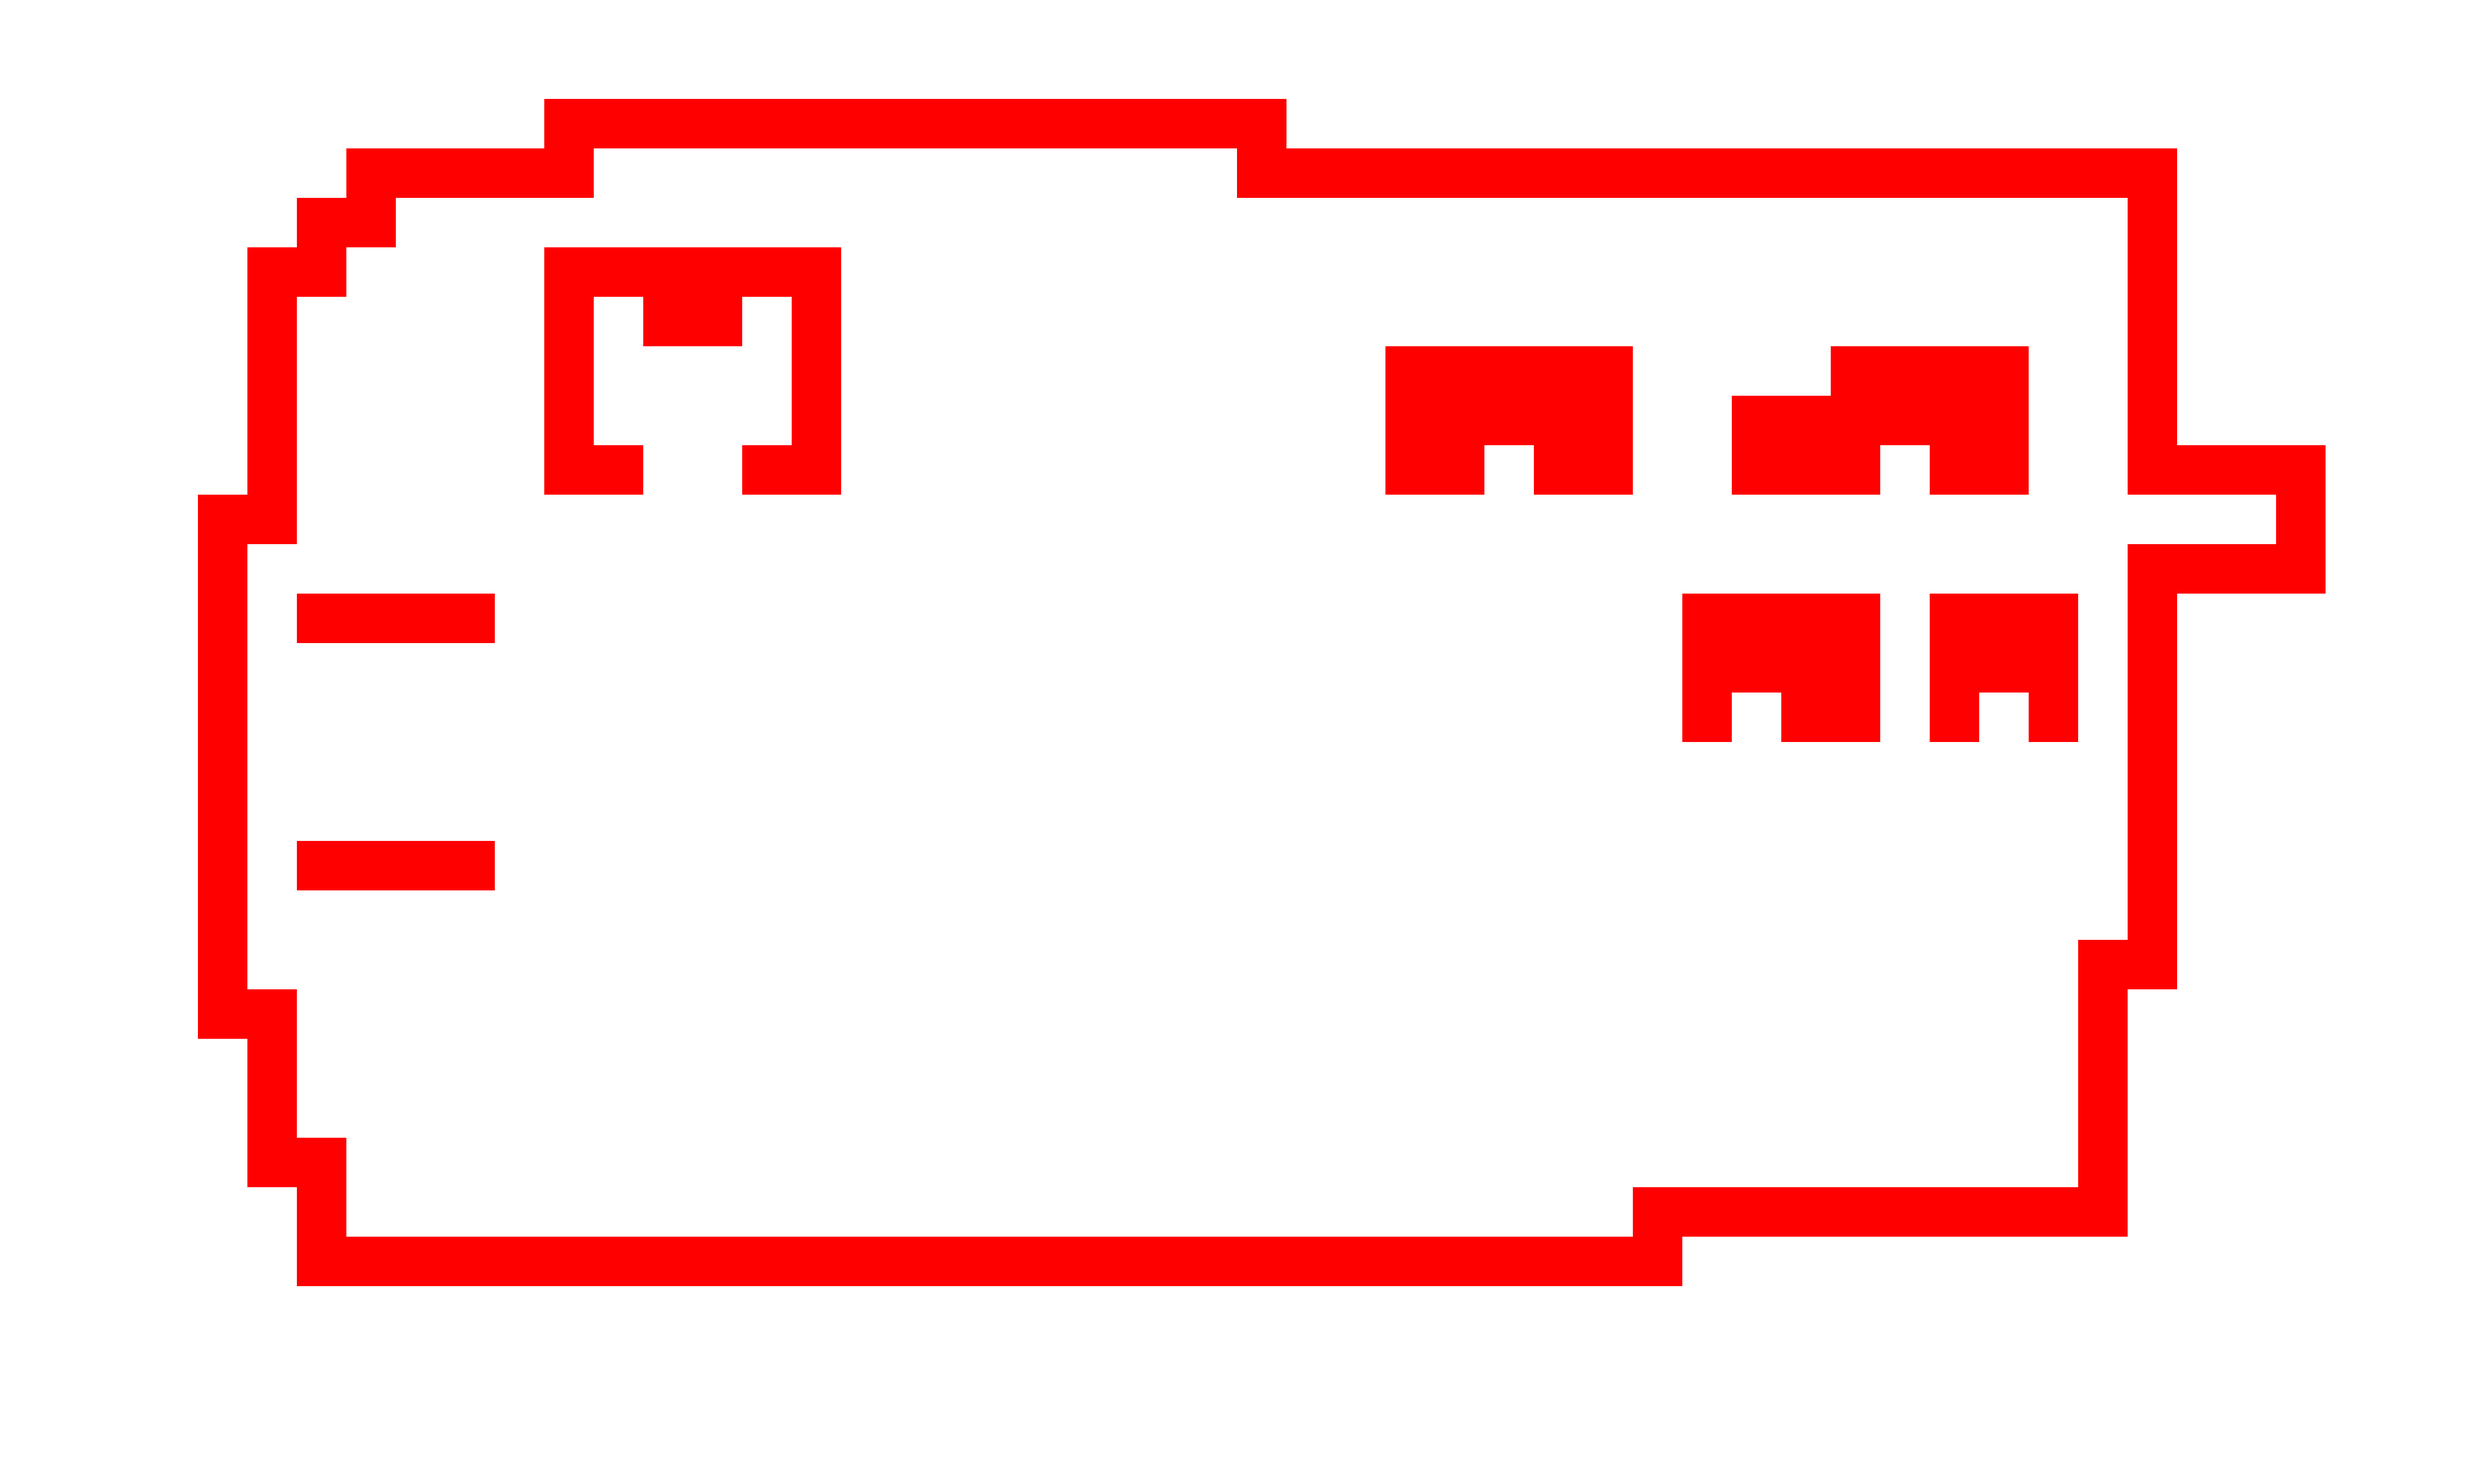
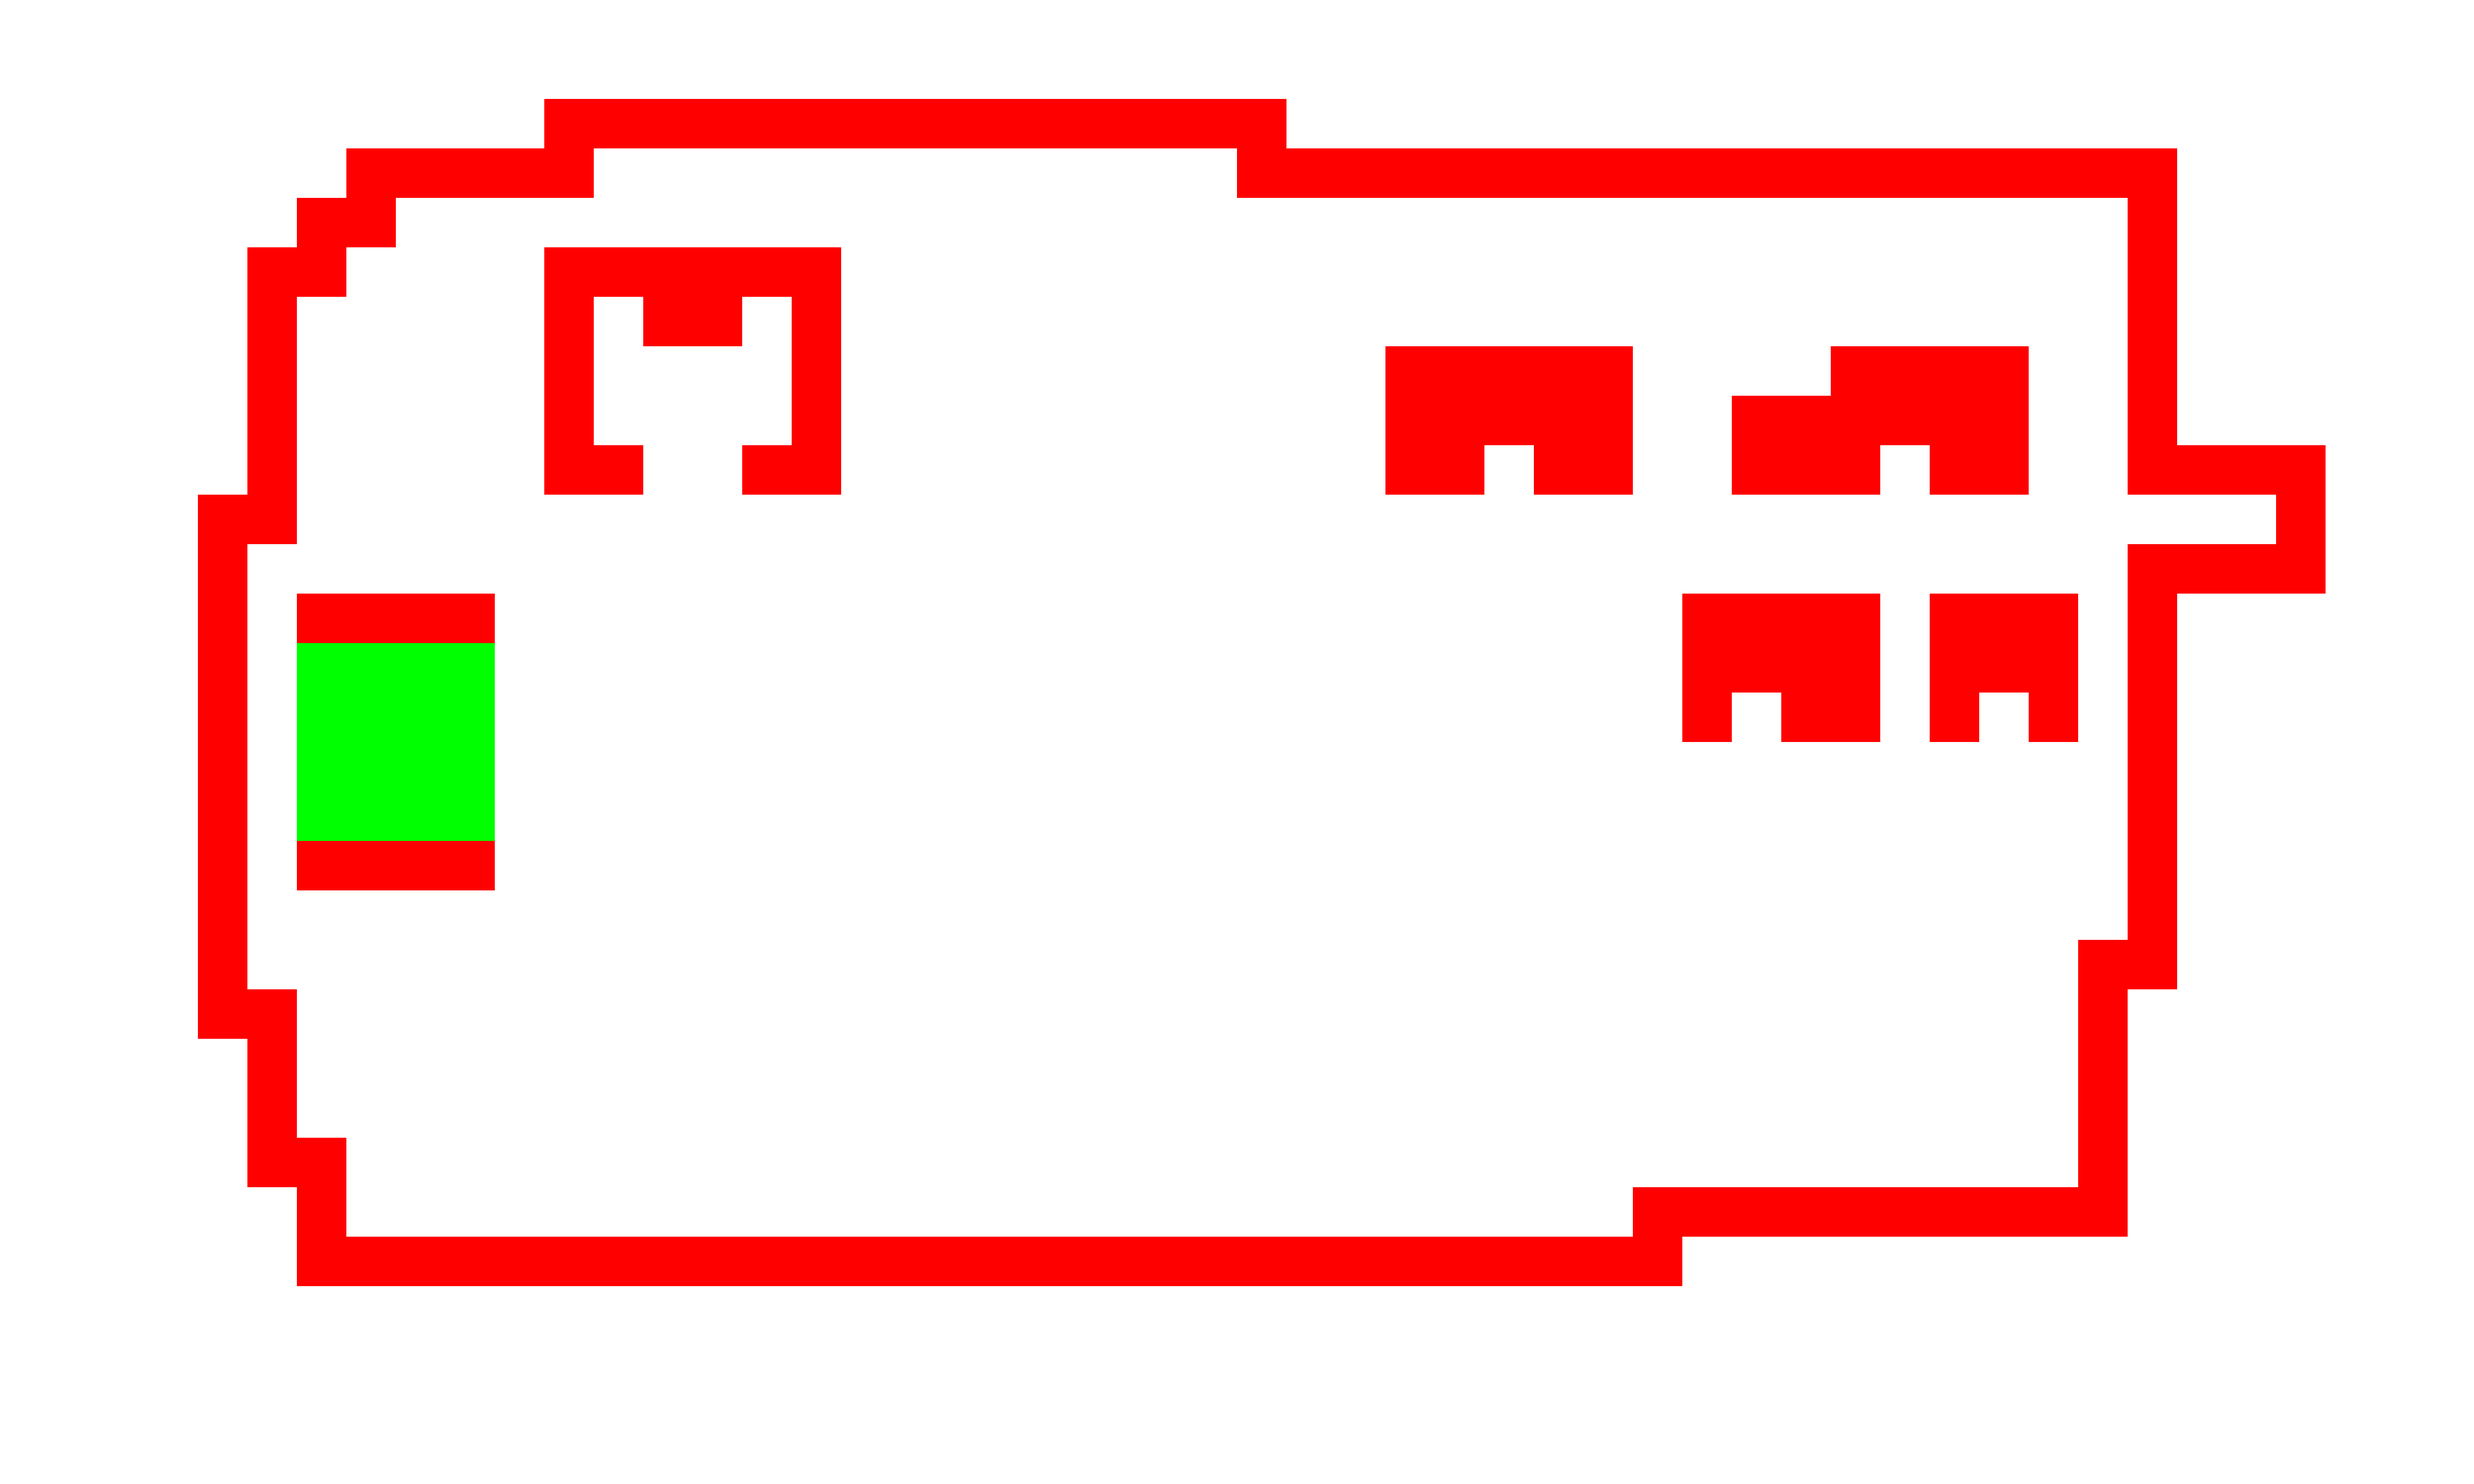
Add inventory section to index.html

Changed region(s): [[0.0938, 0.4062, 0.2188, 0.5938]]

diff --git a/index.js b/index.js
@@ -1,31 +1,37 @@
 import { MapConstructor, PlayerConstructor } from "./module/Asset.js";
+import { fillInventory, displayInventory } from "./module/Inventory.js";
 
 //Alle Karten Elemente Laden
 const canvas = document.querySelector("canvas");
 canvas.width = 1200;
 canvas.height = 800;
-const c = canvas.getContext("2d");
+const c = canvas.getContext("2d", { willReadFrequently: true });
+
+const SpawnPosition = {
+  x: -575,
+  y: -1000,
+};
 
 const MapBackground = new MapConstructor({
   position: {
-    x: -3075,
-    y: -600,
+    x: SpawnPosition.x,
+    y: SpawnPosition.y,
   },
   src: document.getElementById("Map"),
 });
 
 const MapBackground2 = new MapConstructor({
   position: {
-    x: -3075,
-    y: -600,
+    x: SpawnPosition.x,
+    y: SpawnPosition.y,
   },
   src: document.getElementById("MapTransperent"),
 });
 
 const CollisionMap = new MapConstructor({
   position: {
-    x: -3075,
-    y: -600,
+    x: SpawnPosition.x,
+    y: SpawnPosition.y,
   },
   src: document.getElementById("CollisionMap"),
 });
@@ -45,9 +51,18 @@ const Player = new PlayerConstructor({
   },
   velocity: 5,
   src: PlayerDown,
-  inventory: [],
+  inventory: fillInventory(),
 });
+
+console.log(Player.inventory);
+//function to display inventory
+displayInventory(Player);
+
 let directionStack = [];
+
+//Alle Farben für die Kollisionserkennung
+const Wand = [255, 0, 0, 255]; // ROT
+const PokemonEncounter = [0, 255, 0, 255]; // GRÜN
 
 //Collision Punkte für die Kollisionserkennung
 const LeftX = canvas.width / 2 - 14;
@@ -55,34 +70,53 @@ const UpperY = canvas.height / 2 - 52;
 const RightX = canvas.width / 2 + 52;
 const LowerY = canvas.height / 2 + 2;
 
+//Frame Counter für die Pokemon Encounter Erkennung
+let frameCount = 0;
+
 //Spiel Loop
 function animate() {
   window.requestAnimationFrame(animate);
   CollisionMap.draw();
 
+  //Pokemon Encounter Erkennung
+  PokemonEncounterFunction();
   //Kollisions Erkennung
-  let CollisionUP = Collision([
-    [LeftX + 10, UpperY],
-    [RightX - 10, UpperY],
-  ]);
-  let CollisionDown = Collision([
-    [LeftX + 10, LowerY],
-    [RightX - 10, LowerY],
-  ]);
-  let CollisionLeft = Collision([
-    [LeftX, UpperY + 10],
-    [LeftX, LowerY - 10],
-  ]);
-  let CollisionRight = Collision([
-    [RightX, UpperY + 10],
-    [RightX, LowerY - 10],
-  ]);
+
+  let CollisionUP = Collision(
+    [
+      [LeftX + 10, UpperY],
+      [RightX - 10, UpperY],
+    ],
+    Wand
+  );
+  let CollisionDown = Collision(
+    [
+      [LeftX + 10, LowerY],
+      [RightX - 10, LowerY],
+    ],
+    Wand
+  );
+  let CollisionLeft = Collision(
+    [
+      [LeftX, UpperY + 10],
+      [LeftX, LowerY - 10],
+    ],
+    Wand
+  );
+  let CollisionRight = Collision(
+    [
+      [RightX, UpperY + 10],
+      [RightX, LowerY - 10],
+    ],
+    Wand
+  );
 
   //Rest der Karte gezeichnet sowie der Spieler
   MapBackground.draw();
   Player.draw(c, canvas);
   MapBackground2.draw();
-  // CollisionMap.draw();
+  CollisionMap.draw();
+
   //Bewegung des Spielers
   let currentDirection = getCurrentDirection();
   if (currentDirection == "UP" && CollisionUP == false) {
@@ -91,6 +125,7 @@ function animate() {
     CollisionMap.position.y += Player.velocity;
     Player.src = PlayerUp;
     Player.move();
+    frameCount++;
   }
   if (currentDirection == "DOWN" && CollisionDown == false) {
     MapBackground.position.y -= Player.velocity;
@@ -98,6 +133,7 @@ function animate() {
     CollisionMap.position.y -= Player.velocity;
     Player.src = PlayerDown;
     Player.move();
+    frameCount++;
   }
   if (currentDirection == "LEFT" && CollisionLeft == false) {
     MapBackground.position.x += Player.velocity;
@@ -105,6 +141,7 @@ function animate() {
     CollisionMap.position.x += Player.velocity;
     Player.src = PlayerLeft;
     Player.move();
+    frameCount++;
   }
   if (currentDirection == "RIGHT" && CollisionRight == false) {
     MapBackground.position.x -= Player.velocity;
@@ -112,6 +149,7 @@ function animate() {
     CollisionMap.position.x -= Player.velocity;
     Player.src = PlayerRight;
     Player.move();
+    frameCount++;
   }
   if (currentDirection == null) {
     Player.Stop();
@@ -176,9 +214,7 @@ function getCurrentDirection() {
 }
 
 //Kollisions Erkennung
-function Collision(line) {
-  const targetColor = [255, 0, 0, 255].toString();
-
+function Collision(line, targetColor) {
   for (const point of line) {
     let x = point[0];
     let y = point[1];
@@ -187,9 +223,32 @@ function Collision(line) {
     let pixelData = c.getImageData(x, y, 1, 1).data;
     let pixelArray = Array.from(pixelData);
 
-    if (pixelArray.toString() === targetColor) {
+    if (pixelArray.toString() === targetColor.toString()) {
       return true;
     }
   }
   return false;
+}
+
+function PokemonEncounterFunction() {
+  //wird alle 120 Frames ausgeführt
+  if (frameCount % 120 === 0) {
+    let PokemonEncounterCollision = Collision(
+      [
+        [LeftX + 10, UpperY],
+        [RightX - 10, UpperY],
+      ],
+      PokemonEncounter
+    );
+    console.log(PokemonEncounterCollision);
+    if (PokemonEncounterCollision == true) {
+      if (Math.random() * 10 > 9) {
+        alert("Pokemon Encounter");
+      }
+    }
+  }
+  // Setze frameCount auf 0, wenn es größer als 120 ist
+  if (frameCount >= 120) {
+    frameCount = 0;
+  }
 }

diff --git a/module/Inventory.js b/module/Inventory.js
@@ -1,0 +1,79 @@
+export function fillInventory() {
+  const Inventory = {
+    Items: {
+      pokeball: {
+        name: "Pokeball",
+        description: "A tool used to capture Pokemon",
+        quantity: 5,
+        price: 200,
+      },
+      potion: {
+        name: "Potion",
+        description: "A tool used to heal Pokemon",
+        quantity: 5,
+        price: 200,
+      },
+    },
+    Pokemon: {
+      Pikashu: {
+        name: "Pikashu",
+        health: 35,
+        level: 1,
+        type: "Electric",
+        attacks: {
+          ThunderShock: {
+            name: "ThunderShock",
+            damage: 15,
+            quantity: 10,
+          },
+          Thunderbolt: {
+            name: "Thunderbolt",
+            damage: 25,
+            quantity: 5,
+          },
+        },
+      },
+    },
+  };
+
+  return Inventory;
+}
+
+export function displayInventory(Player) {
+  let inventory = Player.inventory;
+  let inventoryItems = inventory.Items;
+  let inventoryPokemon = inventory.Pokemon;
+  let inventoryItemsKeys = Object.keys(inventoryItems);
+  let inventoryPokemonKeys = Object.keys(inventoryPokemon);
+  let inventoryItemsValues = Object.values(inventoryItems);
+  let inventoryPokemonValues = Object.values(inventoryPokemon);
+  let inventoryItemsLength = inventoryItemsKeys.length;
+  let inventoryPokemonLength = inventoryPokemonKeys.length;
+  let inventoryItemsHTML = "";
+  let inventoryPokemonHTML = "";
+  for (let i = 0; i < inventoryItemsLength; i++) {
+    inventoryItemsHTML += `<div class="inventory-item">
+    <div class="inventory-item-name">${inventoryItemsValues[i].name}</div>
+    <div class="inventory-item-description">${inventoryItemsValues[i].description}</div>
+    <div class="inventory-item-quantity">${inventoryItemsValues[i].quantity}</div>
+    <div class="inventory-item-price">${inventoryItemsValues[i].price}</div>
+    </div>`;
+  }
+  for (let i = 0; i < inventoryPokemonLength; i++) {
+    let attacks = Object.values(inventoryPokemonValues[i].attacks)
+      .map(
+        (attack) =>
+          `${attack.name} (Damage: ${attack.damage}, Quantity: ${attack.quantity})`
+      )
+      .join(", ");
+    inventoryPokemonHTML += `<div class="inventory-pokemon">
+    <div class="inventory-pokemon-name">${inventoryPokemonValues[i].name}</div>
+    <div class="inventory-pokemon-health">${inventoryPokemonValues[i].health}</div>
+    <div class="inventory-pokemon-level">${inventoryPokemonValues[i].level}</div>
+    <div class="inventory-pokemon-type">${inventoryPokemonValues[i].type}</div>
+    <div class="inventory-pokemon-attacks">${attacks}</div>
+    </div>`;
+  }
+  document.getElementById("inventory-items").innerHTML = inventoryItemsHTML;
+  document.getElementById("inventory-pokemon").innerHTML = inventoryPokemonHTML;
+}

diff --git a/style.css b/style.css
@@ -2,4 +2,35 @@ body {
   background-color: black;
   display: flex;
   justify-content: center;
+  font-family: "Roboto", sans-serif;
+}
+
+.inventory {
+  color: white;
+  margin-left: 2rem;
+}
+
+.inventory-items {
+  display: grid;
+  flex-wrap: wrap;
+}
+
+.inventory-item-name {
+  font-size: larger;
+  color: white;
+  display: flex;
+  justify-content: center;
+  align-items: center;
+  padding: 20px;
+  margin: 10px;
+}
+
+.inventory-item {
+  color: white;
+  display: flex;
+  align-items: flex-start;
+  border: 1px solid white;
+  padding: 20px;
+  margin: 10px;
+  flex-direction: column;
 }

diff --git a/module/Asset.js b/module/Asset.js
@@ -11,6 +11,20 @@ export class MapConstructor {
   }
 }
 
+export class PokemonConstructor {
+  constructor({ name, health, level, type, attacks, src }) {
+    this.name = name;
+    this.health = health;
+    this.level = level;
+    this.type = type;
+    this.attacks = attacks;
+    this.src = src;
+  }
+  draw(positionX, positionY) {
+    c.drawImage(this.src, positionX, positionY);
+  }
+}
+
 export class PlayerConstructor {
   constructor({ position, src, inventory, velocity }) {
     this.position = position;

diff --git a/index.html b/index.html
@@ -20,6 +20,14 @@
     <img src="/img/playerUp.png" id="PlayerUp" hidden>
     <img src="/img/PokemonTransparent.png" id="MapTransperent" hidden>
     <img src="/img/CollisionMap.png" id="CollisionMap" hidden>
+
+    <div class="inventory">
+        <h1>Inventar</h1>
+        <ul class="inventory-items" id="inventory-items"></ul>
+        <div class="inventory-pokemon" id="inventory-pokemon"></div>
+    </div>
+
+
 </body>
 
 <script type="module" src="index.js"></script>
